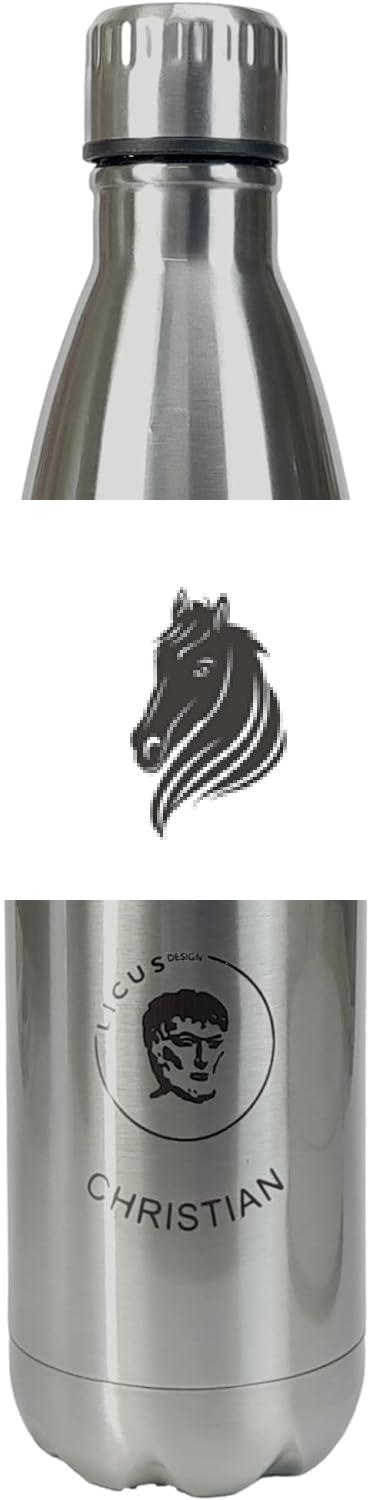
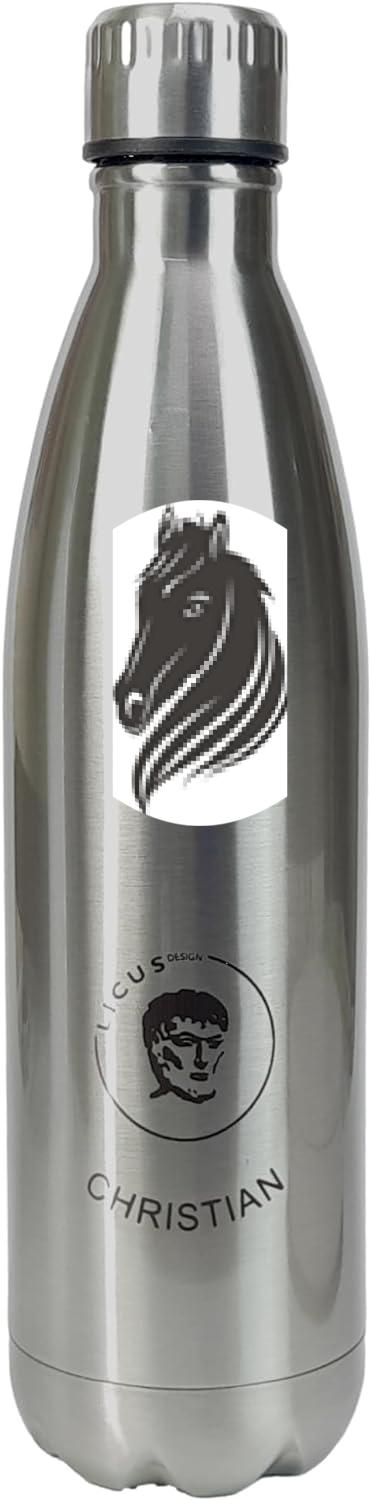
Add files via upload
Toggle für transparenz

Changed region(s): [[0.0, 0.3067, 1.0, 0.6133]]

diff --git a/ImageLayering.py b/ImageLayering.py
@@ -16,6 +16,7 @@ targetwidth = int(config["Default"]["BreiteDesGelayertenBilds"])
 locationx = int(config["Default"]["XWertDesGelayertenBilds"])
 locationy = int(config["Default"]["YWertDesGelayertenBilds"])
 distortion = Util.str2bool(config["Default"]["VerzerrungEingeschaltet"])
+transparenz = Util.str2bool(config["Default"]["TransparenzEingeschaltet"])
 fov = int(config["Default"]["VerzerrungsFaktor"])
 grenzwertR = int(config["Default"]["grenzwertR"])
 grenzwertG = int(config["Default"]["grenzwertG"]) 
@@ -42,7 +43,8 @@ for file in glob.glob(foregroundFolder):
         print("problem beim zuschneiden des bilds mit dem namen: " + name + ", evtl kein schwarz im bild vorhanden?")
         print(+ str(error))
     try:
-        img = Util.tranparent(img, grenzwertR, grenzwertG, grenzwertB)
+        if transparenz:
+            img = Util.tranparent(img, grenzwertR, grenzwertG, grenzwertB)
     except Exception as error:
         logging.error("problem beim transparentisieren des bilds mit dem namen: " + name + str(error))
         print("problem beim transparentisieren des bilds mit dem namen: " + name)
@@ -55,11 +57,11 @@ for file in glob.glob(foregroundFolder):
         logging.error("problem beim resizen des bilds mit dem namen: " + name + str(error))
         print("problem beim resizen des bilds mit dem namen: " + name)
         print(+ str(error))
-    img.save("Background/esGehtNichtNochUneleganter.png")
+    img.save("Util/esGehtNichtNochUneleganter.png")
     
     if distortion:
         try:
-            with imgur(filename="Background/esGehtNichtNochUneleganter.png") as img:
+            with imgur(filename="Util/esGehtNichtNochUneleganter.png") as img:
                 img.background_color = "transparent"
                 img.virtual_pixel = 'background'
                 
